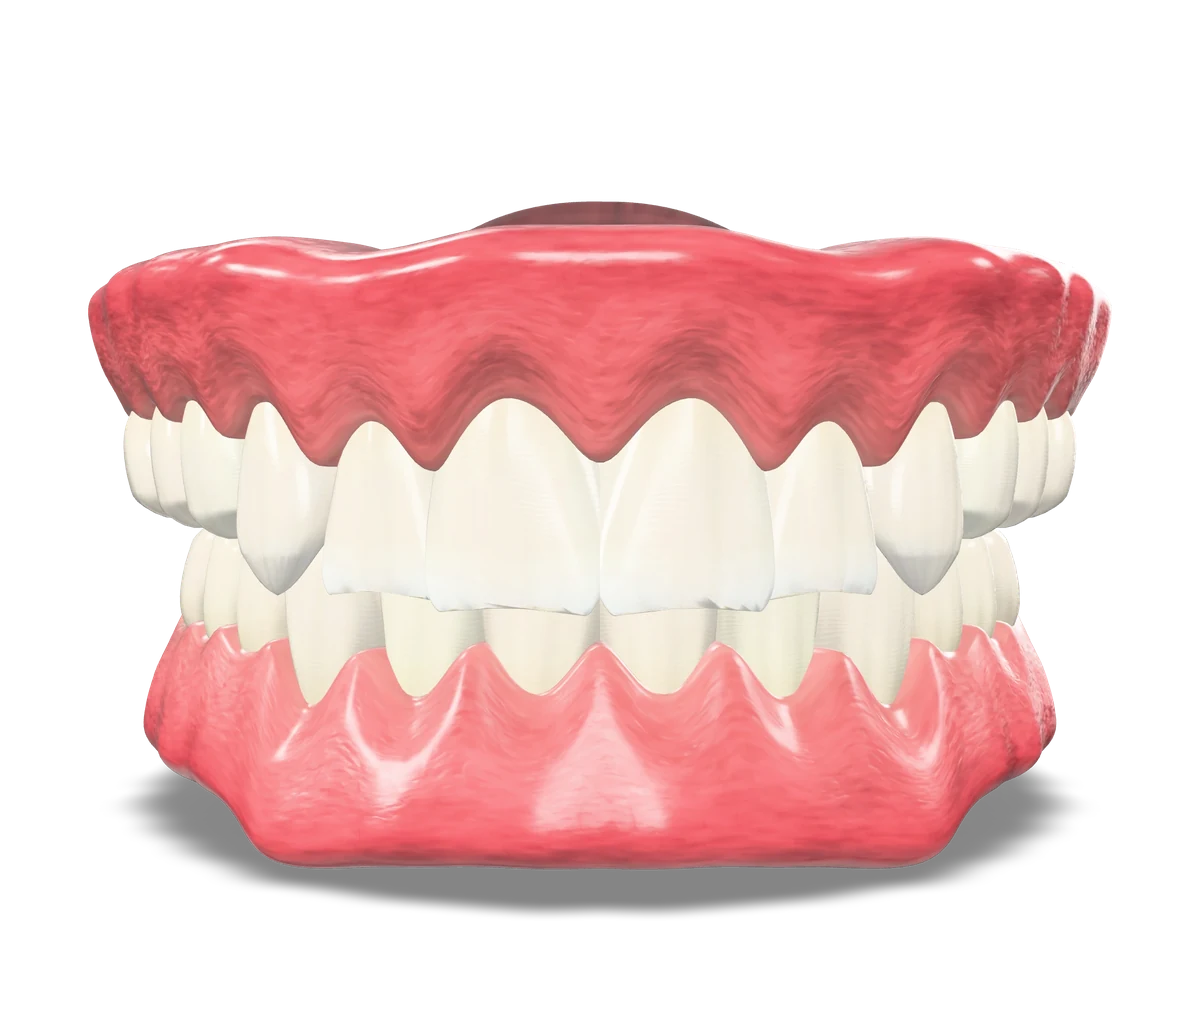
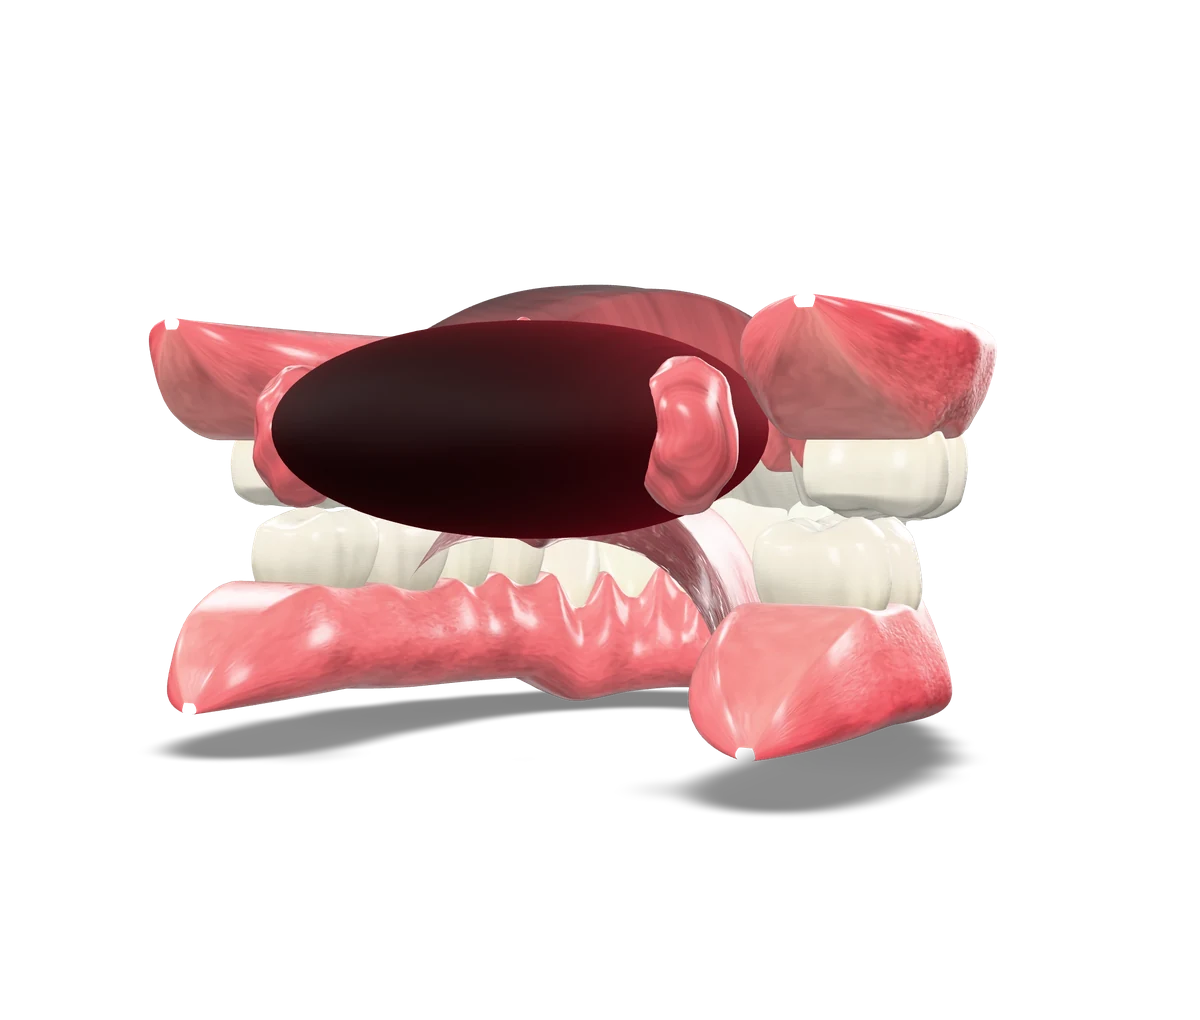
Hero: static camera when opening mouth; recapture poster at new distance

diff --git a/model3d.js b/model3d.js
@@ -5,7 +5,7 @@
   const heroMv = hero && hero.querySelector("model-viewer");
   if (heroMv) {
     const btn = document.getElementById("heroOpen");
-    let isOpen = false, baseRadius = 0;
+    let isOpen = false;
 
     // modelning ichidagi "open" animatsiyasi haqiqiy ijro bilan o'ynatiladi: ochilganda oxirgi kadrda to'xtab, og'iz ochiq turadi;
     // yopilganda teskari o'ynaladi va yopiq kadrda to'xtaydi
@@ -15,16 +15,12 @@
       heroMv.animationName = "open";
       heroMv.timeScale = v ? 1 : -1;
       heroMv.play({ repetitions: 1 });
-      // ochiq jag' yon tomondan ko'rinsa qirqilib qolmasligi uchun kamera biroz uzoqlashadi
-      const o = heroMv.getCameraOrbit();
-      heroMv.cameraOrbit = `${o.theta}rad ${o.phi}rad ${baseRadius * (v ? 1.35 : 1)}m`;
     };
 
     const ready = () => {
       hero.classList.add("is-ready");
       try {
         heroMv.animationName = "open"; heroMv.timeScale = 1; heroMv.pause(); heroMv.currentTime = 0;
-        baseRadius = heroMv.getCameraOrbit().radius;
       } catch (e) { return; }
       isOpen = false;
       btn.hidden = false;

diff --git a/index.html b/index.html
@@ -57,7 +57,7 @@
           <img class="hero3d__fallback" src="assets/model-poster.webp" width="1200" height="1020" alt="Mukammal tabassum: tishlar modeli" fetchpriority="high">
           <model-viewer src="assets/dental_model.glb" alt="Tishlar, milk va og'iz bo'shlig'ining 3D maketi"
             camera-controls disable-zoom disable-tap disable-pan auto-rotate auto-rotate-delay="1500" rotation-per-second="14deg"
-            camera-orbit="0deg 88deg 82%" min-camera-orbit="auto auto 50%" max-camera-orbit="auto auto 170%"
+            camera-orbit="0deg 88deg 104%" min-camera-orbit="auto auto 50%" max-camera-orbit="auto auto 170%"
             shadow-intensity="1.1" shadow-softness="0.9" exposure="1.08" tone-mapping="commerce"
             interaction-prompt="none" environment-image="neutral" reveal="auto">
           </model-viewer>
